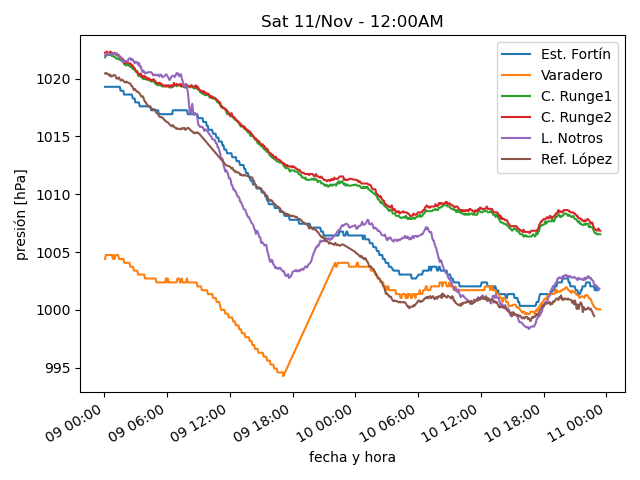
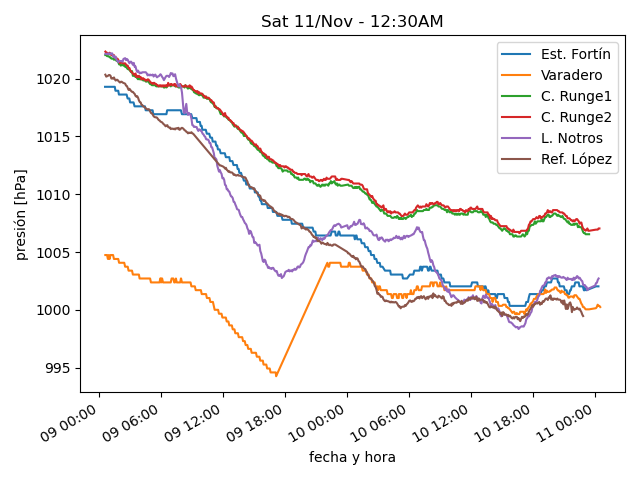
actualiza datos

diff --git a/estaciones/estacion2.html b/estaciones/estacion2.html
@@ -13,37 +13,37 @@
     </tr>
     <tr>
      <td class="stats_data">
-      Fri 10/Nov
+      Sat 11/Nov
      </td>
     </tr>
     <tr>
      <td class="stats_data">
-      11:24PM
+      12:29AM
      </td>
     </tr>
     <tr>
      <td class="stats_data">
-      8.5⁰C
+      8.0⁰C
      </td>
     </tr>
     <tr>
      <td class="stats_data">
-      4.6⁰C
+      4.7⁰C
      </td>
     </tr>
     <tr>
      <td class="stats_data">
-      76.3%
+      79.5%
      </td>
     </tr>
     <tr>
      <td class="stats_data">
-      1009.52hPa
+      1009.72hPa
      </td>
     </tr>
     <tr>
      <td class="stats_data">
-      28.2/32.7 km/hr NNW
+      22.0/25.4 km/hr NNW
      </td>
     </tr>
     <tr>

diff --git a/estaciones/estacion1.html b/estaciones/estacion1.html
@@ -13,37 +13,37 @@
     </tr>
     <tr>
      <td class="stats_data">
-      Fri 10/Nov
+      Sat 11/Nov
      </td>
     </tr>
     <tr>
      <td class="stats_data">
-      11:08PM
+      12:18AM
      </td>
     </tr>
     <tr>
      <td class="stats_data">
-      8.2⁰C
+      7.3⁰C
      </td>
     </tr>
     <tr>
      <td class="stats_data">
-      1.1⁰C
+      2.2⁰C
      </td>
     </tr>
     <tr>
      <td class="stats_data">
-      61.0%
+      70.0%
      </td>
     </tr>
     <tr>
      <td class="stats_data">
-      1001.69hPa
+      1002.03hPa
      </td>
     </tr>
     <tr>
      <td class="stats_data">
-      10.4/19.3 km/hr W
+      6.4/15.3 km/hr SW
      </td>
     </tr>
     <tr>

diff --git a/estaciones/estacion4.html b/estaciones/estacion4.html
@@ -13,37 +13,37 @@
     </tr>
     <tr>
      <td class="stats_data">
-      Fri 10/Nov
+      Sat 11/Nov
      </td>
     </tr>
     <tr>
      <td class="stats_data">
-      11:24PM
+      12:24AM
      </td>
     </tr>
     <tr>
      <td class="stats_data">
-      7.2⁰C
+      6.7⁰C
      </td>
     </tr>
     <tr>
      <td class="stats_data">
-      2.7⁰C
+      2.6⁰C
      </td>
     </tr>
     <tr>
      <td class="stats_data">
-      73.2%
+      74.9%
      </td>
     </tr>
     <tr>
      <td class="stats_data">
-      1003.83hPa
+      1004.03hPa
      </td>
     </tr>
     <tr>
      <td class="stats_data">
-      4.8/7.3 km/hr SW
+      4.1/5.8 km/hr SSE
      </td>
     </tr>
     <tr>

diff --git a/estaciones/estacion5.html b/estaciones/estacion5.html
@@ -13,32 +13,32 @@
     </tr>
     <tr>
      <td class="stats_data">
-      Fri 10/Nov
+      Sat 11/Nov
      </td>
     </tr>
     <tr>
      <td class="stats_data">
-      11:20PM
+      12:20AM
      </td>
     </tr>
     <tr>
      <td class="stats_data">
-      7.9⁰C
+      6.5⁰C
      </td>
     </tr>
     <tr>
      <td class="stats_data">
-      1.7⁰C
+      2.4⁰C
      </td>
     </tr>
     <tr>
      <td class="stats_data">
-      65.0%
+      75.0%
      </td>
     </tr>
     <tr>
      <td class="stats_data">
-      1004.4hPa
+      1005.28hPa
      </td>
     </tr>
     <tr>
